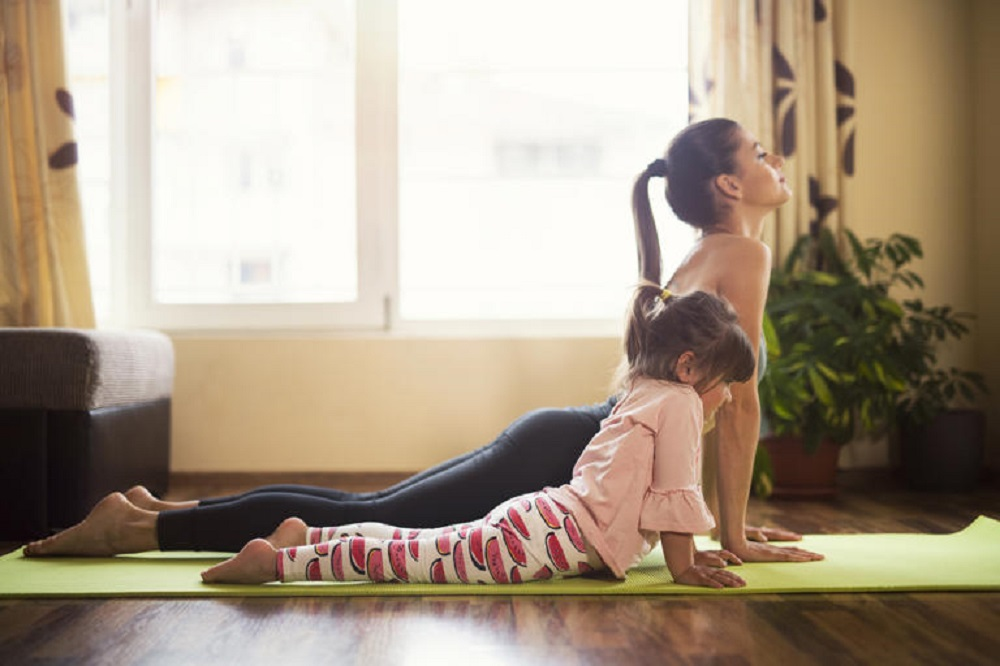
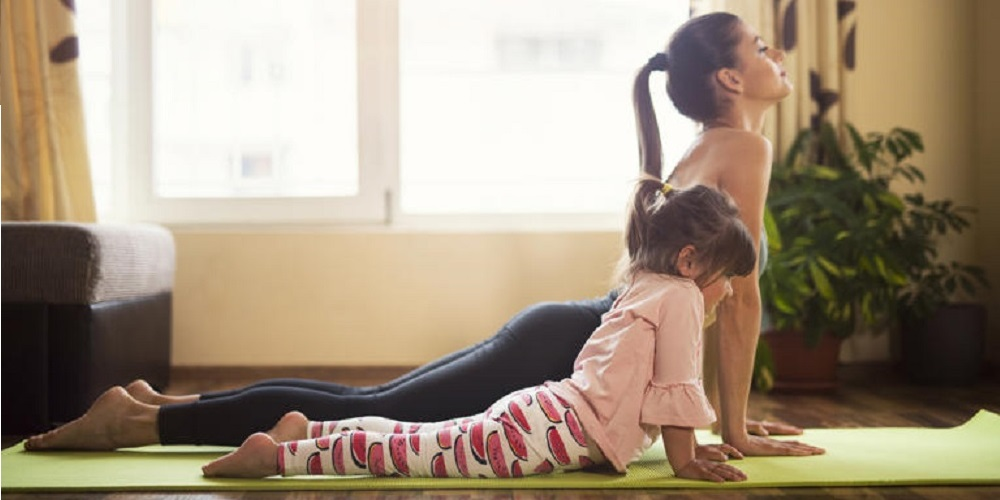
imagenes corregidas

diff --git a/estilos/styles.css b/estilos/styles.css
@@ -197,7 +197,7 @@ background-color: var(--secondary-bg-color);
 .carousel-container {
   position: relative;
   width: 100%;
-  margin-top: 80px;
+  margin-top: 114px;
   transition: all 0.4s ease;
   overflow: hidden;
 }
@@ -222,7 +222,6 @@ background-color: var(--secondary-bg-color);
   display: block;
   width: 25%;
   min-height: 10vh;
-  max-height: 90vh;
   transition: all 0.4s ease;
 }
 
